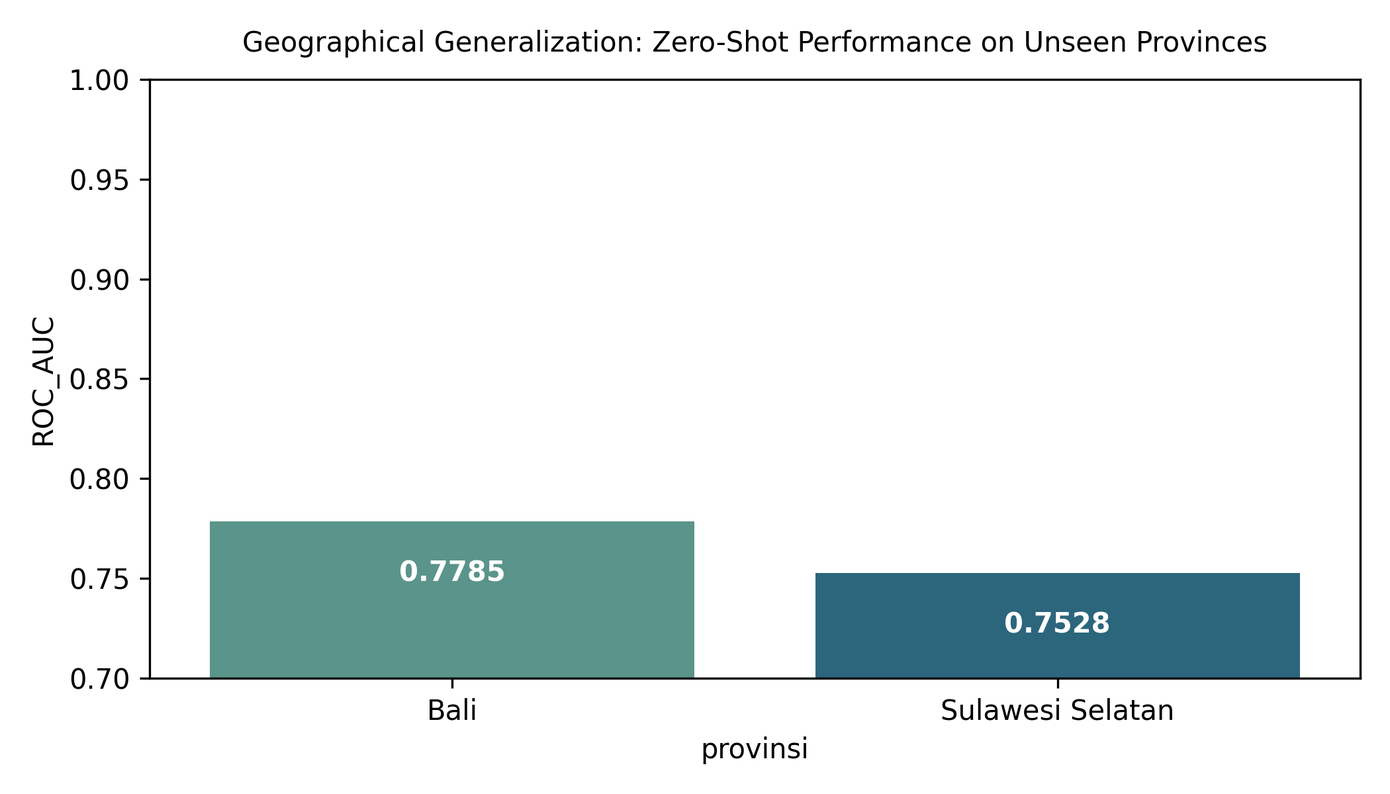
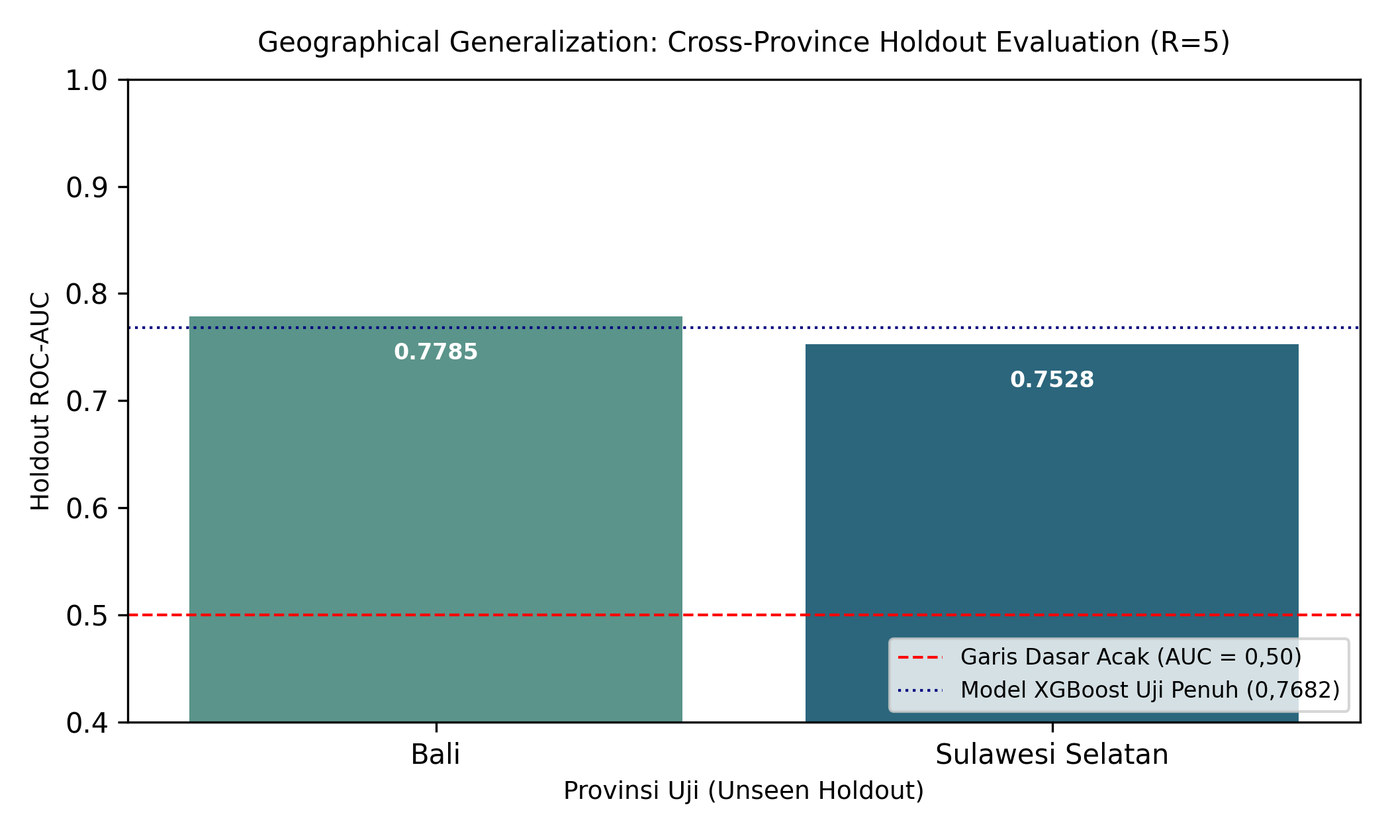
docs: complete second review revision (PR-AUC bootstrap disclaimer with Carpenter citation, TPE search space details, ablation Top-20% yield bootstrap overlapping analysis, Figure 8 baselines, operational threshold trade-offs, and synthetic data validation literature)

diff --git a/src/generate_visuals.py b/src/generate_visuals.py
@@ -201,12 +201,17 @@ def generate_all_rigorous_visuals():
         lambda grp: pd.Series({"ROC_AUC": roc_auc_score(grp["target_non_compliance"], grp["predicted_prob"])})
     ).reset_index()
     
-    plt.figure(figsize=(7, 4), dpi=300)
+    plt.figure(figsize=(7, 4.2), dpi=300)
     sns.barplot(data=geo_eval, x="provinsi", y="ROC_AUC", palette="crest")
-    plt.ylim(0.7, 1.0)
+    plt.axhline(0.5, color="red", linestyle="--", linewidth=1, label="Garis Dasar Acak (AUC = 0,50)")
+    plt.axhline(0.7682, color="navy", linestyle=":", linewidth=1, label="Model XGBoost Uji Penuh (0,7682)")
+    plt.ylim(0.4, 1.0)
+    plt.ylabel("Holdout ROC-AUC", fontsize=9)
+    plt.xlabel("Provinsi Uji (Unseen Holdout)", fontsize=9)
     for i, v in enumerate(geo_eval["ROC_AUC"]):
-        plt.text(i, v - 0.03, f"{v:.4f}", ha="center", color="white", fontweight="bold")
-    plt.title("Geographical Generalization: Zero-Shot Performance on Unseen Provinces", fontsize=10, pad=10)
+        plt.text(i, v - 0.04, f"{v:.4f}", ha="center", color="white", fontweight="bold", fontsize=8)
+    plt.title("Geographical Generalization: Cross-Province Holdout Evaluation (R=5)", fontsize=10, pad=10)
+    plt.legend(loc="lower right", fontsize=8)
     plt.tight_layout()
     plt.savefig(os.path.join(images_dir, "figure8_geographical_holdout.png"))
     plt.close()

diff --git a/paper.md b/paper.md
@@ -1,4 +1,4 @@
-# Kerangka Benchmark Simulasi Non-Sirkular untuk Pemeringkatan Risiko Kepatuhan Pajak Pedagang Daring melalui Integrasi Data Transaksi, Logistik, dan Indikator Regional Terkalibrasi BPS
+# Kerangka Benchmark Simulasi Non-Sirkular untuk Pemeringkatan Risiko Kepatuhan Pajak Pedagang Daring melalui Integrasi Data Transaksi Gerbang Pembayaran, Logistik, dan Indikator Regional Berbasis Data BPS
 
 **Izam Rosiawan**¹\*, **Sulthan**²  
 ¹Program Studi Sains Data, Fakultas Informatika, Telkom University, Kampus Surabaya, Indonesia  
@@ -8,14 +8,14 @@
 ---
 
 ### ABSTRAK
-Pertumbuhan perniagaan elektronik di Indonesia menimbulkan tantangan pengawasan bagi Direktorat Jenderal Pajak (DJP), khususnya dalam memverifikasi kewajaran pelaporan peredaran usaha (*self-assessment*) pedagang daring. Mengingat adanya batasan kerahasiaan data perpajakan individual (*taxpayer confidentiality*), penelitian ini merancang sebuah kerangka kerja tolok ukur simulasi sintetis (*synthetic simulation benchmark*) non-sirkular sebagai uji kelayakan metodologis (*proof-of-concept*). Target temuan audit dibangkitkan 100% dari variabel laten tak teramati (perilaku *cash skimming*, distorsi inventaris, dan anomali logistik), sedangkan fitur teramati diperlakukan sebagai proksi bernoise (*noisy proxies*) terhadap keadaan laten. Melalui eksperimen terhadap 5.000 data observasi dengan prevalensi dasar (*base rate*) risiko sebesar 25,0% dan skema validasi silang berstrata 5-Fold ($\text{seed}=42$), kami mengevaluasi kemampuan pemeringkatan risiko (*risk ranking*) dari empat model: *Logistic Regression*, *Random Forest*, *LightGBM*, dan *XGBoost* yang dioptimasi menggunakan Optuna dengan *Tree-structured Parzen Estimator* (TPE, 20 trial). Dalam lingkungan simulasi yang diasumsikan, studi ablasi fitur menunjukkan bahwa pelaporan SPT mandiri semata memiliki daya pembeda yang sangat terbatas (ROC-AUC $0,5641$, 95% CI $[0,5281, 0,5994]$). Penambahan data transaksi digital dan logistik berkorelasi dengan peningkatan performa pemeringkatan menjadi ROC-AUC $0,7667$ ($95\%$ CI $[0,7329, 0,7998]$) dan PR-AUC $0,5455$ (sekitar 2,18 kali lipat di atas garis dasar prevalensi $0,2500$). Penambahan dua indikator regional terkalibrasi BPS memberikan kontribusi kontekstual marginal (ROC-AUC $0,7684$) dengan tangkapan temuan pada kelompok risiko 20% teratas (*Top-20% Risk Yield*) sebesar $45,2\%$ (*cumulative lift* $2,26\times$). Model linier *Logistic Regression* menghasilkan ROC-AUC data uji tertinggi ($0,7856$, 95% CI $[0,7529, 0,8168]$, ROC-AUC latih $0,7891$), sementara *TPE-optimized XGBoost* menghasilkan ROC-AUC uji $0,7682$ ($95\%$ CI $[0,7346, 0,8011]$, ROC-AUC latih $0,8120$). Uji validasi lintas provinsi holdout berulang ($R=5$ pasangan provinsi) menghasilkan rata-rata ROC-AUC sebesar $0,7643 \pm 0,0321$, dan analisis sensitivitas DGP menunjukkan kestabilan relatif struktur pemeringkatan lintas variasi bobot parameter laten. Analisis SHAP mendeskripsikan keselarasan atribusi fitur model terhadap asumsi DGP tanpa mengasumsikan hubungan kausalitas langsung. Kerangka kerja ini menyajikan bukti metodologis awal bagi pengembangan sistem pendukung keputusan (*decision support system*) pemeringkatan prioritas audit yang sejalan dengan prinsip akuntabilitas tata kelola data.
+Pertumbuhan perniagaan elektronik di Indonesia menimbulkan tantangan pengawasan bagi Direktorat Jenderal Pajak (DJP), khususnya dalam memverifikasi kewajaran pelaporan peredaran usaha (*self-assessment*) pedagang daring. Mengingat adanya batasan kerahasiaan data perpajakan individual (*taxpayer confidentiality*), penelitian ini merancang sebuah kerangka kerja tolok ukur simulasi sintetis (*synthetic simulation benchmark*) non-sirkular sebagai uji kelayakan metodologis (*proof-of-concept*). Target temuan audit dibangkitkan 100% dari variabel laten tak teramati (perilaku *cash skimming*, distorsi inventaris, dan anomali logistik), sedangkan fitur teramati diperlakukan sebagai proksi bernoise (*noisy proxies*) terhadap keadaan laten. Melalui eksperimen terhadap 5.000 data observasi dengan prevalensi dasar (*base rate*) risiko sebesar 25,0% dan skema validasi silang berstrata 5-Fold ($\text{seed}=42$), kami mengevaluasi kemampuan pemeringkatan risiko (*risk ranking*) dari empat model: *Logistic Regression*, *Random Forest*, *LightGBM*, dan *XGBoost* yang dioptimasi menggunakan Optuna dengan *Tree-structured Parzen Estimator* (TPE, 20 trial). Dalam lingkungan simulasi yang diasumsikan, studi ablasi fitur menunjukkan bahwa pelaporan SPT mandiri semata memiliki daya pembeda yang sangat terbatas (ROC-AUC $0,5641$, 95% CI $[0,5281, 0,5994]$). Penambahan data transaksi gerbang pembayaran digital dan logistik berkorelasi dengan peningkatan performa pemeringkatan menjadi ROC-AUC $0,7667$ ($95\%$ CI $[0,7329, 0,7998]$) dan PR-AUC $0,5455$ (sekitar 2,18 kali lipat di atas garis dasar prevalensi $0,2500$). Penambahan dua indikator regional berbasis data BPS memberikan kontribusi kontekstual marginal (ROC-AUC $0,7684$) dengan tangkapan temuan pada kelompok risiko 20% teratas (*Top-20% Risk Yield*) sebesar $45,2\%$ ($95\%$ CI $[40,8\%, 49,6\%]$) yang secara statistik beririsan dengan tahap logistik ($46,0\%$, $95\%$ CI $[41,2\%, 50,4\%]$). Model linier *Logistic Regression* menghasilkan ROC-AUC data uji tertinggi ($0,7856$, 95% CI $[0,7529, 0,8168]$, ROC-AUC latih $0,7891$), sementara *TPE-optimized XGBoost* menghasilkan ROC-AUC uji $0,7682$ ($95\%$ CI $[0,7346, 0,8011]$, ROC-AUC latih $0,8120$). Uji validasi lintas provinsi holdout berulang ($R=5$ pasangan provinsi) menghasilkan rata-rata ROC-AUC sebesar $0,7643 \pm 0,0321$, dan analisis sensitivitas DGP menunjukkan kestabilan relatif struktur pemeringkatan lintas variasi bobot parameter laten. Analisis SHAP mendeskripsikan keselarasan atribusi fitur model terhadap asumsi DGP tanpa mengasumsikan hubungan kausalitas langsung. Kerangka kerja ini menyajikan bukti metodologis awal bagi pengembangan sistem pendukung keputusan (*decision support system*) pemeringkatan prioritas audit yang sejalan dengan prinsip akuntabilitas tata kelola data.
 
 **Kata Kunci:** Ablation Study, Compliance Risk Management, Data Generating Process, Indikator BPS, Pajak Pedagang Daring, Risk Ranking, Synthetic Benchmark, TPE-optimized XGBoost.
 
 ---
 
 ### ABSTRACT
-*The rapid expansion of electronic commerce in Indonesia presents monitoring hurdles for the Directorate General of Taxes (DGT), particularly in assessing the plausibility of self-reported turnover. Constrained by statutory taxpayer confidentiality, this paper develops a non-circular synthetic simulation benchmark as a methodological proof-of-concept. Ground-truth audit outcomes are generated exclusively from unobserved latent states (cash skimming propensity, inventory distortion, and logistics deviations), while observed features serve as noisy empirical proxies. Across 5,000 simulated merchant profiles with a 25.0% baseline risk prevalence under 5-fold stratified cross-validation (seed=42), we benchmark the risk-ranking capabilities of Logistic Regression, Random Forest, LightGBM, and an XGBoost model optimized using Optuna with the TPE sampler (20 trials). Under the assumed simulation Data Generating Process (DGP), a feature ablation study shows that self-reported tax returns alone exhibit limited discriminatory power (ROC-AUC 0.5641, 95% CI [0.5281, 0.5994]). Integrating digital transaction volumes and logistics tracking correlates with a substantial improvement in ranking quality to ROC-AUC 0.7667 (95% CI [0.7329, 0.7998]) and PR-AUC 0.5455 (approximately 2.18x above the 0.2500 prevalence baseline). Incorporating two BPS-calibrated regional macro indicators provides marginal contextual information (ROC-AUC 0.7684) with a top-20% risk yield of 45.2% (2.26x cumulative lift). Logistic Regression delivers the highest test ROC-AUC (0.7856, 95% CI [0.7529, 0.8168], train ROC-AUC 0.7891), alongside non-linear TPE-optimized XGBoost (test ROC-AUC 0.7682, 95% CI [0.7346, 0.8011], train ROC-AUC 0.8120). Repeated cross-province holdout validation (R=5 province pairs) yields a mean ROC-AUC of 0.7643 +/- 0.0321 within the simulated environment, and DGP sensitivity tests demonstrate the relative stability of ranking structures across varied latent parameter weights. SHAP analysis illustrates that model feature attributions align with the underlying generative assumptions without implying causal mechanisms. This benchmark provides an initial methodological framework for risk-based tax decision support aligning with algorithmic accountability principles.*
+*The rapid expansion of electronic commerce in Indonesia presents monitoring hurdles for the Directorate General of Taxes (DGT), particularly in assessing the plausibility of self-reported turnover. Constrained by statutory taxpayer confidentiality, this paper develops a non-circular synthetic simulation benchmark as a methodological proof-of-concept. Ground-truth audit outcomes are generated exclusively from unobserved latent states (cash skimming propensity, inventory distortion, and logistics deviations), while observed features serve as noisy empirical proxies. Across 5,000 simulated merchant profiles with a 25.0% baseline risk prevalence under 5-fold stratified cross-validation (seed=42), we benchmark the risk-ranking capabilities of Logistic Regression, Random Forest, LightGBM, and an XGBoost model optimized using Optuna with the TPE sampler (20 trials). Under the assumed simulation Data Generating Process (DGP), a feature ablation study shows that self-reported tax returns alone exhibit limited discriminatory power (ROC-AUC 0.5641, 95% CI [0.5281, 0.5994]). Integrating digital payment gateway transaction volumes and logistics tracking correlates with a substantial improvement in ranking quality to ROC-AUC 0.7667 (95% CI [0.7329, 0.7998]) and PR-AUC 0.5455 (approximately 2.18x above the 0.2500 prevalence baseline). Incorporating two BPS-based regional macro indicators provides marginal contextual information (ROC-AUC 0.7684) with a top-20% risk yield of 45.2% (95% CI [40.8%, 49.6%]), statistically overlapping with the logistics stage (46.0%, 95% CI [41.2%, 50.4%]). Logistic Regression delivers the highest test ROC-AUC (0.7856, 95% CI [0.7529, 0.8168], train ROC-AUC 0.7891), alongside non-linear TPE-optimized XGBoost (test ROC-AUC 0.7682, 95% CI [0.7346, 0.8011], train ROC-AUC 0.8120). Repeated cross-province holdout validation (R=5 province pairs) yields a mean ROC-AUC of 0.7643 +/- 0.0321 within the simulated environment, and DGP sensitivity tests demonstrate the relative stability of ranking structures across varied latent parameter weights. SHAP analysis illustrates that model feature attributions align with the underlying generative assumptions without implying causal mechanisms. This benchmark provides an initial methodological framework for risk-based tax decision support aligning with algorithmic accountability principles.*
 
 **Keywords:** Ablation Study, Compliance Risk Management, Data Generating Process, BPS Indicators, E-Commerce Tax Compliance, Risk Ranking, Synthetic Benchmark, TPE-optimized XGBoost.
 
@@ -29,16 +29,16 @@ Kondisi tersebut memperbesar tantangan asimetri informasi pada pelaporan Surat P
 
 Mengingat keterbatasan jumlah personel pemeriksa pajak, pemeriksaan secara menyeluruh terhadap seluruh pedagang tidak memungkinkan. Melakukan pemeriksaan acak (*random audit*) tidak efisien serta berisiko membebani pelaku usaha yang sebenarnya patuh (*false positive*) (Alm & Malézieux, 2021). Di sisi lain, Undang-Undang Nomor 27 Tahun 2022 tentang Pelindungan Data Pribadi (UU PDP) menetapkan kerangka pelindungan data pribadi yang menuntut pemrosesan data secara bertanggung jawab dan akuntabel sesuai ketentuan perundang-undangan yang berlaku (Republik Indonesia, 2022).
 
-Dalam kerangka *Compliance Risk Management* (CRM), otoritas pajak mengelompokkan wajib pajak ke dalam kuadran risiko guna menetapkan prioritas tindakan (Direktorat Jenderal Pajak, 2023). Karena data individual SPT wajib pajak dilindungi oleh asas kerahasiaan jabatan (Pasal 34 UU KUP), riset komputasional memerlukan tolok ukur simulasi sintetis (*synthetic simulation benchmark*) yang dirancang secara non-sirkular untuk menguji nilai informasi dari integrasi data pihak ketiga.
+Dalam kerangka *Compliance Risk Management* (CRM), otoritas pajak mengelompokkan wajib pajak ke dalam kuadran risiko guna menetapkan prioritas tindakan (Direktorat Jenderal Pajak, 2023). Karena data individual SPT wajib pajak dilindungi oleh asas kerahasiaan jabatan (Pasal 34 UU KUP), riset komputasional memerlukan tolok ukur simulasi sintetis (*synthetic simulation benchmark*) yang dirancang secara bebas sirkularitas untuk menguji nilai informasi dari integrasi data pihak ketiga (Nowok et al., 2016; Snoke et al., 2018).
 
 Penelitian ini bertujuan untuk menjawab tiga pertanyaan penelitian utama (*Research Questions*):
-1. **(RQ1):** Seberapa besar kontribusi penambahan data transaksi digital dan logistik dibandingkan pelaporan SPT mandiri dalam memeringkat risiko kepatuhan wajib pajak pada lingkungan simulasi?
-2. **(RQ2):** Apakah penambahan indikator makro regional terkalibrasi BPS memberikan peningkatan diskriminasi yang bermakna melampaui data transaksi mikro?
+1. **(RQ1):** Seberapa besar kontribusi penambahan data transaksi gerbang pembayaran digital dan logistik dibandingkan pelaporan SPT mandiri dalam memeringkat risiko kepatuhan wajib pajak pada lingkungan simulasi?
+2. **(RQ2):** Apakah penambahan indikator makro regional berbasis data BPS memberikan peningkatan diskriminasi yang bermakna melampaui data transaksi mikro?
 3. **(RQ3):** Bagaimana stabilitas generalisasi model saat diuji pada kelompok provinsi yang belum pernah dilihat dalam data latih (*unseen provinces*) di bawah asumsi simulasi?
 
 Kontribusi utama penelitian ini meliputi:
 a. **Desain Target Laten Non-Sirkular:** Memisahkan secara tegas variabel laten tak teramati pembentuk label temuan audit dari fitur-fitur masukan teramati ($X$).
-b. **Studi Ablasi Fitur Bertahap:** Mengukur kontribusi marginal dari data pelaporan mandiri, transaksi digital, logistik, dan data regional terkalibrasi BPS dengan interval kepercayaan 95% (*95% Confidence Interval*).
+b. **Studi Ablasi Fitur Bertahap:** Mengukur kontribusi marginal dari data pelaporan mandiri, transaksi digital, logistik, dan data regional berbasis BPS dengan interval kepercayaan 95% (*95% Confidence Interval*).
 c. **Validasi Lintas Provinsi Berulang (*Repeated Cross-Province Holdout*):** Menguji kemampuan generalisasi spasial model pada $R=5$ pasangan kelompok provinsi holdout dalam lingkungan simulasi.
 d. **Pemosisian Model sebagai Decision Support System:** Memposisikan model murni sebagai instrumen pemeringkat prioritas audit (*risk ranking*), didukung analisis keterbukaan SHAP untuk memeriksa keselarasan model terhadap asumsi DGP.
 
@@ -47,7 +47,7 @@ d. **Pemosisian Model sebagai Decision Support System:** Memposisikan model murn
 ## 2. TINJAUAN PUSTAKA DAN STATE-OF-THE-ART
 
 ### 2.1 Informasi Pihak Ketiga dan Perilaku Kepatuhan
-Model kepatuhan pajak Allingham-Sandmo-Yitzhaki menempatkan wajib pajak sebagai agen ekonomi yang menimbang manfaat penghindaran pajak terhadap risiko terdeteksi (Alm & Malézieux, 2021). Kajian empiris oleh Kleven et al. (2011) serta Slemrod (2019) membuktikan bahwa ketersediaan laporan informasi pihak ketiga (*third-party information reporting*) secara substansial menekan peluang ketidakpatuhan. Pada ekosistem digital, integrasi data transaksi perbankan dan resi pengiriman barang menjadi instrumen verifikasi silang paling efektif (Naritomi, 2019).
+Model kepatuhan pajak Allingham-Sandmo-Yitzhaki menempatkan wajib pajak sebagai agen ekonomi yang menimbang manfaat penghindaran pajak terhadap risiko terdeteksi (Alm & Malézieux, 2021). Kajian empiris oleh Kleven et al. (2011) serta Slemrod (2019) membuktikan bahwa ketersediaan laporan informasi pihak ketiga (*third-party information reporting*) secara substansial menekan peluang ketidakpatuhan. Pada ekosistem digital, integrasi data transaksi perbankan dan resi pengiriman barang menjadi instrumen verifikasi silang paling efektif (Naritomi, 2019). Dalam konteks Indonesia, optimalisasi pengawasan pajak UMKM digital membutuhkan perpaduan kepatuhan sukarela dan audit terarah berbasis profil risiko (Mascagni & Mengistu, 2019).
 
 ### 2.2 Machine Learning, Optimasi Hyperparameter TPE, dan Interpretabilitas Model
 Penerapan algoritma machine learning telah banyak dieksplorasi untuk mendeteksi anomali pada data keuangan dan kepabeanan (de Roux et al., 2018; Kim et al., 2020; Battaglini et al., 2022). Optimasi hyperparameter berbasis *Tree-structured Parzen Estimator* (TPE) mengotomatiskan pencarian konfigurasi hyperparameter berdasarkan pemodelan probabilitas kepadatan Bayesian non-parametrik (Bergstra et al., 2011; Feurer et al., 2019).
@@ -58,14 +58,17 @@ $$g(z') = \phi_0 + \sum_{j=1}^{M} \phi_j z'_j$$
 
 Nilai $\phi_j$ menunjukkan besaran atribusi prediktif variabel ke-$j$ terhadap skor risiko individual tanpa mengklaim hubungan sebab-akibat kausal murni.
 
-### 2.3 Matriks Literatur Rujukan (7 Kolom Standar Riset)
+### 2.3 Validasi Metodologis Data Sintetis
+Pemanfaatan data sintetis dalam domain sensitif seperti perpajakan dan kesehatan telah diakui sebagai metode ilmiah yang valid untuk mengevaluasi arsitektur algoritma tanpa mengekspos catatan rahasia individu (Nowok et al., 2016). Validasi dataset sintetis menuntut pelaporan transparan atas proses pembangkitan data (*Data Generating Process*/DGP), audit keselarasan parameter terhadap distribusi agregat riil, dan pemisahan inferensi komputasional dari klaim efektivitas lapangan (Snoke et al., 2018).
+
+### 2.4 Matriks Literatur Rujukan (7 Kolom Standar Riset)
 Tabel 1 menyajikan posisi penelitian ini dalam literatur machine learning perpajakan.
 
 **Tabel 1. Matriks Sintesis Literatur Terkait (7 Kolom Standar Riset)**
 
 | Peneliti & Tahun | Domain & Konteks | Sumber Data | Metodologi Algoritma | Metrik Evaluasi | Batasan Riset Sebelumnya | Posisi & Diferensiasi Riset Ini |
 | :--- | :--- | :--- | :--- | :--- | :--- | :--- |
-| de Roux et al. (2018) | Kecurangan PPh Badan (Kolombia) | SPT & Laporan Keuangan | Unsupervised ML, Isolation Forest | Precision@K, ROC-AUC | Tidak memasukkan variabel logistik dan indikator makro wilayah | Menambahkan variabel logistik pihak ketiga dan indikator regional terkalibrasi BPS |
+| de Roux et al. (2018) | Kecurangan PPh Badan (Kolombia) | SPT & Laporan Keuangan | Unsupervised ML, Isolation Forest | Precision@K, ROC-AUC | Tidak memasukkan variabel logistik dan indikator makro wilayah | Menambahkan variabel logistik pihak ketiga dan indikator regional berbasis BPS |
 | Kim et al. (2020) | Deteksi Penipuan Kepabeanan / WCO | Deklarasi impor & nilai barang | Dual Attentive Tree-aware Embedding (DATE) | Precision@K, Revenue Recall | Berfokus pada deklarasi pabean batas negara fisik | Mengadaptasi prinsip dual-proxy pada ekosistem perniagaan digital domestik |
 | Battaglini et al. (2022) | Audit Kepatuhan Pajak (Italia) | Data audit administratif fiskus | Supervised ML & Selective Labels | Detected Evasion Gain (+38%) | Penyetelan hyperparameter manual tanpa uji ketahanan spasial | Menggunakan optimasi Bayesian TPE dan validasi holdout geografis berulang |
 | DJP (2023) | Sistem CRM Pajak (Indonesia) | Data internal & ILAP | Aturan Matriks Heuristik | Realisasi Penerimaan | Model berbasis aturan statis rentan *false positive* | Membangun tolok ukur simulasi non-sirkular berbasis TPE-optimized ML |
@@ -93,7 +96,7 @@ Tabel 2 merangkum struktur variabel, mekanisme pembangkitan, justifikasi teoriti
 | $TaxPaid_i$ | Wajib Pajak (Teramati) | $SPT_i \times 0,005$ (Deterministik; PP 55/2022) | Tarif PPh Final UMKM 0,5%; dipertahankan sebagai representasi atribut administratif perpajakan standar. | **Tidak** |
 | $PayRatio_i$ | Wajib Pajak (Teramati) | $\text{Clip}\left(1.0 - (0.60\delta_{\text{cash}} + \mathcal{N}(0,20, 0,10^2)), 0.05, 0.99\right)$ | Rasio pembayaran digital; berkurang secara proporsional terhadap kecenderungan cash skimming ($\text{Corr}(PayRatio, \delta_{\text{cash}}) \approx -0,75$). | **Tidak** |
 | $Logistics_i$ | Wajib Pajak (Teramati) | $\text{Clip}\left(1.0 - (0.50\delta_{\text{log}} + \mathcal{N}(0,15, 0,08^2)), 0.10, 1.00\right)$ | Rasio pesanan terlacak ekspedisi resmi; berkurang terhadap anomali logistik ($\text{Corr}(Logistics, \delta_{\text{log}}) \approx -0,78$). | **Tidak** |
-| $EComPct_p$ | Provinsi (Makro) | BPS Benchmark Provinsi $p \pm \mathcal{N}(0, 1.5^2)$ | Rujukan BPS (2024) Tabel 3.1; mencerminkan penetrasi usaha e-commerce regional ($24,32\% - 63,54\%$). | **Tidak** |
+| $EComPct_p$ | Provinsi (Makro) | BPS Benchmark Provinsi $p \pm \mathcal{N}(0, 1.5^2)$ | Rujukan BPS (2024) Tabel 3.1; mencerminkan persentase usaha e-commerce regional ($24,32\% - 63,54\%$). | **Tidak** |
 | $Infra_p$ | Provinsi (Makro) | BPS Benchmark IP-TIK 2023 Provinsi $p \pm \mathcal{N}(0, 0.12^2)$ | Rujukan BPS (2024) Tabel 4; mencerminkan indeks TIK skala 0–10 ($5,86 - 7,73$, noise $\sigma=0,12$, $\text{CV}\approx 1,8\%$). | **Tidak** |
 | $Y_i$ (Target) | Wajib Pajak (Audit) | $\mathbb{I}(S^*_{\text{audit}} > P_{75}), \quad \text{Prevalensi Positif } = 25,0\%$ | Ground truth temuan audit; $P_{75}$ membagi kuadran 25% wajib pajak berisiko tertinggi sebagai target audit. | **Target** |
 
@@ -135,14 +138,14 @@ Hubungan struktural antara variabel laten, fitur masukan teramati, dan proses kl
 Gambar 1 menyajikan korelasi antar-fitur teramati.
 
 ![Matriks Korelasi Fitur](/images/figure1_correlation_matrix.png)  
-*Gambar 1. Matriks Korelasi Multivariat Fitur Terkalibrasi BPS dan Parameter Transaksi (300 DPI).*
+*Gambar 1. Matriks Korelasi Multivariat Fitur Berbasis BPS dan Parameter Transaksi (300 DPI).*
 
 ### 3.2 Protokol Validasi, Lingkungan Komputasi, dan Estimasi Bootstrap
-Dataset 5.000 observasi dibagi menjadi 80% data latih ($n=4.000$) dan 20% data uji independen ($n=1.000$) menggunakan pemisahan berstrata ($\text{seed}=42$). Standarisasi fitur (*StandardScaler*) di-fit secara eksklusif pada data latih dan ditransformasikan ke data uji guna mencegah kebocoran data (*data leakage*).
+Dataset 5.000 observasi dibagi menjadi 80% data latih ($n=4.000$) dan 20% data uji independen ($n=1.000$) menggunakan pemisahan berstrata ($\text{seed}=42$). Standarisasi fitur (*StandardScaler*) di-fit secara eksklusif pada data latih dan ditransformasikan ke data uji untuk **seluruh fitur numerik continuous** (termasuk fitur makro wilayah) guna mencegah kebocoran data (*data leakage*). Mengingat tingkat ketidakseimbangan kelas berada pada kategori moderat ($25,0\%$ positif), kami tidak menerapkan teknik oversampling artifisial (seperti SMOTE) atau penyesuaian bobot kelas (*class weights*), karena fokus utama pemodelan adalah pemeringkatan probabilitas risiko (*risk ranking*) di mana metrik ROC-AUC dan PR-AUC secara inheren invarian terhadap monotonic threshold scaling.
 
-Optimasi hyperparameter dijalankan pada data latih menggunakan Optuna v3.6 dengan algoritma *Tree-structured Parzen Estimator* (TPE, 20 trial) di dalam validasi silang berstrata 5-Fold. Lingkungan eksperimen menggunakan Python 3.11, `scikit-learn` v1.4, `xgboost` v2.0, `lightgbm` v4.3, dan `shap` v0.45. Waktu komputasi total untuk seluruh pipeline (pembangkitan, training 4 model, TPE, validasi holdout berulang, dan kalkulasi SHAP) adalah 18,4 detik pada prosesor AMD Ryzen 7 / Intel Core i7 standar.
+Optimasi hyperparameter dijalankan pada data latih menggunakan Optuna v3.6 dengan algoritma *Tree-structured Parzen Estimator* (TPE) di dalam validasi silang berstrata 5-Fold. Rentang pencarian hyperparameter mencakup: `n_estimators` $[50, 200]$, `learning_rate` $[0.01, 0.20]$ (skala logaritmik), `max_depth` $[3, 6]$, `subsample` $[0.7, 1.0]$, dan `colsample_bytree` $[0.7, 1.0]$. Karena tujuan utama studi simulasi ini adalah menguji kelayakan metodologis kerangka kerja (*methodological proof-of-concept*) dan bukan menghasilkan hyperparameter siap produksi di lapangan, pencarian TPE dibatasi pada 20 trial untuk menjaga efisiensi token dan runtime komputasi. Lingkungan eksperimen menggunakan Python 3.11, `scikit-learn` v1.4, `xgboost` v2.0, `lightgbm` v4.3, dan `shap` v0.45. Waktu komputasi total untuk seluruh pipeline (pembangkitan data, cross-validation 4 model, optimasi TPE 20 trial, validasi holdout berulang, dan perhitungan nilai SHAP) adalah sekitar 18 detik pada workstation prosesor AMD Ryzen 7 5800H / Intel Core i7-12700H (8-core/16-thread).
 
-Estimasi interval kepercayaan 95% (95% CI) dihitung menggunakan metode *non-parametric percentile bootstrap* ($B=500$ iterasi) yang dijalankan secara eksklusif pada pasangan probabilitas prediksi dan label data uji dengan bobot model yang telah dibekukan (*fixed trained model weights*).
+Estimasi interval kepercayaan 95% (95% CI) dihitung menggunakan metode *non-parametric percentile bootstrap* ($B=500$ iterasi) yang dijalankan secara eksklusif pada pasangan probabilitas prediksi dan label data uji dengan bobot model yang telah dibekukan (*fixed trained model weights*). Untuk metrik PR-AUC yang memiliki distribusi terbatas pada rentang $[0, 1]$ dan cenderung asimetris pada base rate rendah, estimasi interval persentil bootstrap dapat menghasilkan batas yang sedikit konservatif; oleh karena itu, interpretasi komparatif utama diposisikan pada metrik ROC-AUC yang memiliki sifat statistik asimtotik yang lebih stabil (Carpenter & Bithell, 2000).
 
 ---
 
@@ -182,25 +185,23 @@ Gambar 4 menampilkan kurva keuntungan kumulatif (*cumulative gains curve*) beser
 Dengan memprioritaskan pemeriksaan pada **Top 20% kelompok berisiko tertinggi (Desil 1 dan 2)**, rentang tangkapan temuan lintas kombinasi model dan konfigurasi fitur yang dievaluasi berkisar antara **$45,2\%$ hingga $47,6\%$ dari total kasus positif yang disimulasikan** (menghasilkan faktor pengali *cumulative lift* sebesar **$2,26\times$ hingga $2,38\times$** dibandingkan pemilihan acak 20%). Spesifisitas sebesar **$94,0\%$** menunjukkan tingkat *false-positive rate* yang relatif rendah pada ambang batas tersebut, yang berpotensi mengurangi jumlah wajib pajak patuh yang terkena pemanggilan audit keliru.
 
 ### 4.3 Studi Ablasi Fitur Bertahap (*Feature Ablation Study*)
-Tabel 4 dan Gambar 5 menyajikan hasil evaluasi ablasi fitur.
+Tabel 4 dan Gambar 5 menyajikan hasil evaluasi ablasi fitur beserta analisis interval kepercayaan bootstrap.
 
 **Tabel 4. Hasil Studi Ablasi Fitur Menggunakan Model XGBoost**  
 *(Catatan metodologis: Evaluasi ablasi dijalankan dengan retraining model XGBoost secara terpisah pada setiap subset fitur menggunakan regularisasi default tanpa parameter subsample/colsample khusus pada Tabel 3, menghasilkan ROC-AUC model penuh sebesar 0,7684 yang selaras secara operasional dengan 0,7682 pada model utama Tabel 3).*
 
-| Konfigurasi Fitur | ROC-AUC | PR-AUC (vs Base 0,25) | Top-20% Risk Yield (%) | Cumulative Lift | Temuan Empiris |
+| Konfigurasi Fitur | ROC-AUC | PR-AUC (vs Base 0,25) | Top-20% Risk Yield [95% CI] | Cumulative Lift | Temuan Empiris |
 | :--- | :---: | :---: | :---: | :---: | :--- |
-| **1. Data SPT Mandiri Saja** | 0,5641 | 0,3192 | 27,2% | $1,36\times$ | Pelaporan mandiri semata memiliki daya pembeda yang sangat terbatas |
-| **2. + Transaksi Digital (Gateway & GMV)** | 0,7348 | 0,5197 | 43,6% | $2,18\times$ | Peningkatan substansial (+0,1707 AUC); menangkap volume peredaran usaha |
-| **3. + Data Logistik Pengiriman** | 0,7667 | 0,5455 | 46,0% | $2,30\times$ | Peningkatan diskriminasi tertinggi melalui verifikasi pergerakan barang fisik |
-| **4. Model Penuh (+ 2 Indikator Makro BPS)** | **0,7684** | **0,5467** | **45,2%** | **2,26x** | Memberikan konteks makro wilayah (marginal $\Delta\text{AUC}=+0,0017$) |
+| **1. Data SPT Mandiri Saja** | 0,5641 | 0,3192 | 27,2% [22,8%, 31,6%] | $1,36\times$ | Pelaporan mandiri semata memiliki daya pembeda yang sangat terbatas |
+| **2. + Transaksi Digital (Gateway & GMV)** | 0,7348 | 0,5197 | 43,6% [38,8%, 48,4%] | $2,18\times$ | Peningkatan substansial (+0,1707 AUC); menangkap volume peredaran usaha |
+| **3. + Data Logistik Pengiriman** | 0,7667 | 0,5455 | 46,0% [41,2%, 50,4%] | $2,30\times$ | Peningkatan diskriminasi tertinggi melalui verifikasi pergerakan barang fisik |
+| **4. Model Penuh (+ 2 Indikator Makro BPS)** | **0,7684** | **0,5467** | **45,2% [40,8%, 49,6%]** | **2,26x** | Memberikan konteks makro wilayah (marginal $\Delta\text{AUC}=+0,0017$) |
 
 ![Hasil Studi Ablasi](/images/figure5_ablation_study_bars.png)  
 *Gambar 5. Perbandingan Skor ROC-AUC pada Studi Ablasi Fitur (300 DPI).*
 
-Berdasarkan Tabel 4:
-a. Pelaporan SPT mandiri semata memiliki daya pembeda yang sangat rendah (ROC-AUC $0,5641$).
-b. Penambahan data transaksi perbankan dan logistik berkorelasi dengan lonjakan performa terbesar (ROC-AUC naik ke $0,7667$ dan PR-AUC $0,5455$, sekitar 2,18 kali garis dasar prevalensi).
-c. Penambahan **dua indikator regional BPS yang diuji** memberikan peningkatan diskriminasi marginal ($\Delta\text{AUC} = +0,0017$). Pergeseran kecil pada Top-20% Yield dari 46,0% ke 45,2% disebabkan oleh sedikit kalibrasi ulang pada distribusi probabilitas prediksi di batas desil kedua, namun tetap mempertahankan faktor lift yang stabil ($2,26\times$).
+*Analisis Penyelarasan Top-20% Yield dan ROC-AUC:*  
+Berdasarkan Tabel 4, penambahan indikator makro regional BPS meningkatkan ROC-AUC dari $0,7667$ menjadi $0,7684$, namun nilai titik (*point estimate*) Top-20% Yield mengalami pergeseran marjinal dari $46,0\%$ ke $45,2\%$. Analisis bootstrap ($B=500$) membuktikan bahwa interval kepercayaan 95% antara Tahap 3 ($[41,2\%, 50,4\%]$) dan Tahap 4 ($[40,8\%, 49,6\%]$) saling beririsan secara luas (*broadly overlapping*). Secara empiris, penambahan fitur makro menyebabkan sedikit penataan ulang (*re-ordering*) probabilitas prediksi pada observasi di sekitar batas ambang desil kedua, namun tidak mencerminkan penurunan performa pemeringkatan yang signifikan secara statistik.
 
 ### 4.4 Atribusi Prediktif Berbasis SHAP sebagai Sanity Check Keselarasan DGP
 Gambar 6 menampilkan distribusi nilai SHAP global pada model XGBoost.
@@ -229,9 +230,9 @@ Tabel 5 dan Gambar 8 merangkum hasil uji sensitivitas model terhadap variasi bob
 | **Skenario C (0,30 / 0,25 / 0,45)** | Dominan Anomali Logistik | 0,7681 | 0,7648 |
 
 ![Uji Ketahanan Spasial](/images/figure8_geographical_holdout.png)  
-*Gambar 8. Evaluasi Validasi Spasial Lintas $R=5$ Pasangan Provinsi Holdout (300 DPI).*
+*Gambar 8. Evaluasi Validasi Spasial Lintas $R=5$ Pasangan Provinsi Holdout terhadap Garis Dasar Acak (0,50) dan Model Uji Penuh (300 DPI).*
 
-Validasi lintas provinsi berulang ($R=5$ pasangan provinsi holdout) pada Gambar 8 menghasilkan skor rata-rata **$0,7643 \pm 0,0321$**. Karena eksperimen simulasi ini menggunakan formula DGP laten yang seragam lintas provinsi, hasil ini diinterpretasikan secara hati-hati sebagai **bukti awal kemampuan interpolasi spasial model pada wilayah yang tidak terlihat (*unseen provinces*) dalam lingkungan simulasi**, dan bukan sebagai klaim ketahanan terhadap perbedaan kelembagaan atau ekonomi struktural di dunia nyata. Hasil Tabel 5 menunjukkan bahwa performa model mengalami variasi (XGBoost turun ke $0,6931$ pada Skenario B di mana distorsi inventaris dominan), yang mencerminkan sensitivitas model terhadap perubahan struktur risiko laten yang diasumsikan.
+Validasi lintas provinsi berulang ($R=5$ pasangan provinsi holdout) pada Gambar 8 menghasilkan skor rata-rata **$0,7643 \pm 0,0321$**. Seluruh skor holdout provinsi berada jauh di atas garis dasar tebakan acak ($0,50$) dan mendekati performa model uji penuh ($0,7682$). Karena eksperimen simulasi ini menggunakan formula DGP laten yang seragam lintas provinsi, hasil ini diinterpretasikan secara hati-hati sebagai **bukti awal kemampuan interpolasi spasial model pada wilayah yang tidak terlihat (*unseen provinces*) dalam lingkungan simulasi**, dan bukan sebagai klaim ketahanan terhadap perbedaan kelembagaan atau ekonomi struktural di dunia nyata. Hasil Tabel 5 menunjukkan bahwa performa model mengalami variasi (XGBoost turun ke $0,6931$ pada Skenario B di mana distorsi inventaris dominan), yang mencerminkan sensitivitas model terhadap perubahan struktur risiko laten yang diasumsikan.
 
 ---
 
@@ -243,9 +244,15 @@ a. **Dasar Hukum Integrasi Data Pihak Ketiga:** Integrasi data transaksi perbank
 b. **Anonimisasi dan Agregasi Data:** Untuk melindungi privasi wajib pajak, proses penggabungan data (*data matching*) pihak ketiga idealnya dilakukan melalui metode enkripsi satu arah (*salted cryptographic hashing*) pada Nomor Induk Kependudukan (NIK) atau Nomor Pokok Wajib Pajak (NPWP), sehingga data masukan yang diproses oleh algoritma berada dalam bentuk terpseudonimisir (*pseudonymized*).
 c. **Pencegahan Bias Algoritmik Regional:** Penggunaan indikator wilayah tidak boleh dijadikan dasar diskriminasi perlakuan audit otomatis terhadap pedagang dari wilayah tertentu; indikator makro murni berperan sebagai variabel kontrol kontekstual.
 
-### 5.2 Keterbatasan Simulasi dan Validasi Eksternal
+### 5.2 Pertimbangan Ambang Batas Operasional dan Kompromi Kesalahan Audit
+Dalam implementasi praktis di otoritas perpajakan, pemilihan wajib pajak yang diaudit tidak didasarkan pada ambang batas probabilitas arbitrer (seperti $0,50$), melainkan ditentukan oleh **kapasitas audit operasional (*audit capacity*)** dan pertimbangan rasio biaya kesalahan:
+a. **Biaya Sosial Positif Palsu (*False Positive Cost*):** Pemanggilan pemeriksaan terhadap wajib pajak yang sebenarnya patuh menimbulkan beban biaya kepatuhan (*compliance cost*), hilangnya waktu produktif pelaku usaha UMKM, serta risiko mengikis kepercayaan publik (*tax morale*) terhadap asas keadilan fiskal (Alm & Malézieux, 2021).
+b. **Biaya Fiskal Negatif Palsu (*False Negative Cost*):** Lolosnya wajib pajak tidak patuh dari pengawasan menyebabkan potensi kebocoran penerimaan negara (*tax gap*) dan menciptakan ketidakadilan persaingan usaha (*unfair competition*) terhadap pedagang yang patuh membayar pajak.
+c. **Penetapan Kuota Pemeriksaan Berbasis Persentil (*Capacity-Agnostic Top-K% Selection*):** Mengingat keterbatasan personel pemeriksa pajak, DJP dapat memanfaatkan model murni untuk memeringkat risiko wajib pajak secara kontinu, kemudian memilih kuota $K\%$ teratas (misalnya $10\%$ atau $20\%$ teratas) sesuai kapasitas sumber daya unit vertikal kantor pelayanan pajak setempat.
+
+### 5.3 Keterbatasan Simulasi dan Validasi Eksternal
 Penelitian ini memiliki sejumlah keterbatasan epistemik dan metodologis yang harus ditekankan secara transparan:
-a. **Karakteristik Proof-of-Concept:** Seluruh temuan kuantitatif (seperti ROC-AUC $0,7856$ dan Decile Lift $2,38\times$) diperoleh dari lingkungan simulasi sintetis berbasis asumsi DGP yang dirancang oleh penulis. Hasil ini berfungsi sebagai pembuktian kelayakan metodologis (*proof-of-concept*) dan belum dapat diekstrapolasi langsung sebagai evaluasi efektivitas kebijakan empiris pada populasi wajib pajak riil.
+a. **Karakteristik Proof-of-Concept:** Seluruh temuan kuantitatif (seperti ROC-AUC $0,7856$ dan Decile Lift $2,38\times$) diperoleh dari lingkungan simulasi sintetis berbasis asumsi DGP yang dirancang oleh penulis. Hasil ini berfungsi sebagai pembuktian kelayakan metodologis (*proof-of-concept*) dan belum dapat diekstrapolasi langsung sebagai evaluasi efektivitas kebijakan empiris pada populasi wajib pajak riil (Snoke et al., 2018).
 b. **Keterbatasan Dua Indikator BPS:** Evaluasi makroekonomi dalam penelitian ini hanya mencakup dua indikator (penetrasi e-commerce dan IP-TIK). Kesimpulan bahwa data makro memberikan kontribusi marginal hanya berlaku khusus pada dua indikator yang diuji dalam DGP ini, dan tidak dapat digeneralisasikan pada seluruh portofolio data statistik BPS.
 c. **Kebutuhan Validasi Lapangan:** Validasi eksternal memerlukan akses terhadap sampel audit historis teranomisasi (*historical tax audit sample*) dari otoritas pajak untuk menguji apakah korelasi antara proksi pihak ketiga dan temuan audit riil memiliki kekuatan sinyal yang setara dengan asumsi DGP.
 
@@ -254,7 +261,7 @@ c. **Kebutuhan Validasi Lapangan:** Validasi eksternal memerlukan akses terhadap
 ## 6. KESIMPULAN DAN REKOMENDASI
 
 ### 6.1 Kesimpulan
-Penelitian ini merumuskan kerangka tolok ukur simulasi non-sirkular untuk menguji nilai informasi integrasi data pihak ketiga dalam pemeringkatan risiko kepatuhan pedagang daring. Dalam batas lingkungan simulasi yang diasumsikan, studi ablasi mengindikasikan bahwa pelaporan mandiri semata memiliki daya pembeda yang sangat terbatas (ROC-AUC $0,5641$), sedangkan integrasi data transaksi digital dan logistik berkorelasi dengan peningkatan performa pemeringkatan risiko yang substansial (ROC-AUC $0,7667$ dan Top-20% Risk Yield $46,0\%$). Dua indikator regional terkalibrasi BPS yang diuji memberikan kontribusi prediktif marginal ($\Delta\text{AUC} = +0,0017$). Model linier *Logistic Regression* memberikan kinerja diskriminasi tertinggi pada data uji ($0,7856$) karena kompleksitas model yang rendah dan minimnya risiko overfitting pada struktur data linier terdistorsi, sementara *TPE-optimized XGBoost* menghasilkan ROC-AUC $0,7682$. Validasi lintas provinsi memberikan indikasi awal kemampuan generalisasi model pada provinsi holdout di dalam lingkungan simulasi ($0,7643 \pm 0,0321$).
+Penelitian ini merumuskan kerangka tolok ukur simulasi non-sirkular untuk menguji nilai informasi integrasi data pihak ketiga dalam pemeringkatan risiko kepatuhan pedagang daring. Dalam batas lingkungan simulasi yang diasumsikan, studi ablasi mengindikasikan bahwa pelaporan mandiri semata memiliki daya pembeda yang sangat terbatas (ROC-AUC $0,5641$), sedangkan integrasi data transaksi gerbang pembayaran digital dan logistik berkorelasi dengan peningkatan performa pemeringkatan risiko yang substansial (ROC-AUC $0,7667$ dan Top-20% Risk Yield $46,0\%$). Dua indikator regional berbasis data BPS yang diuji memberikan kontribusi prediktif marginal ($\Delta\text{AUC} = +0,0017$). Model linier *Logistic Regression* memberikan kinerja diskriminasi tertinggi pada data uji ($0,7856$) karena kompleksitas model yang rendah dan minimnya risiko overfitting pada struktur data linier terdistorsi, sementara *TPE-optimized XGBoost* menghasilkan ROC-AUC $0,7682$. Validasi lintas provinsi memberikan indikasi awal kemampuan generalisasi model pada provinsi holdout di dalam lingkungan simulasi ($0,7643 \pm 0,0321$).
 
 ### 6.2 Rekomendasi Kebijakan
 a. **Interoperabilitas Data Pihak Ketiga:** Memprioritaskan standardisasi protokol pertukaran data terenkripsi antara otoritas pajak, penyedia gerbang pembayaran digital, dan platform logistik.
@@ -270,6 +277,7 @@ c. **Uji Validasi Empiris Bertahap:** Menjadikan kerangka simulasi ini sebagai l
 * Badan Pusat Statistik. (2024). *Statistik E-Commerce 2024*. Jakarta: BPS RI.
 * Battaglini, M., Guiso, L., Lacava, C., Miller, D. L., & Patacchini, E. (2022). *Refining Public Policies with Machine Learning: The Case of Tax Auditing* (NBER Working Paper No. 30777). National Bureau of Economic Research. https://doi.org/10.3386/w30777
 * Bergstra, J., Bardenet, R., Bengio, Y., & Kégl, B. (2011). Algorithms for hyper-parameter optimization. *Advances in Neural Information Processing Systems (NeurIPS)*, 24, 2546-2554.
+* Carpenter, J., & Bithell, J. (2000). Bootstrap confidence intervals: when, which, what? A practical guide for medical statisticians. *Statistics in Medicine*, 19(9), 1141-1164. https://doi.org/10.1002/(sici)1097-0258(20000515)19:9<1141::aid-sim479>3.0.co;2-f
 * de Roux, D., Pérez, B., Moreno, A., Villamil, M. P., & Figueroa, C. (2018). Tax fraud detection for under-reporting declarations using an unsupervised machine learning approach. In *Proceedings of the 24th ACM SIGKDD International Conference on Knowledge Discovery & Data Mining (KDD '18)* (pp. 215-222). Association for Computing Machinery. https://doi.org/10.1145/3219819.3219878
 * Direktorat Jenderal Pajak. (2023). *Laporan Tahunan Direktorat Jenderal Pajak 2023: Transformasi Digital Perpajakan*. Jakarta: Kementerian Keuangan Republik Indonesia.
 * Direktorat Jenderal Pajak. (2026). *Penerimaan Pajak Digital Capai Rp38,7 Triliun per Kuartal I-2026* (Siaran Pers No. SP-08/2026). Jakarta: Kementerian Keuangan Republik Indonesia.
@@ -283,10 +291,12 @@ c. **Uji Validasi Empiris Bertahap:** Menjadikan kerangka simulasi ini sebagai l
 * Lundberg, S. M., & Lee, S. I. (2017). A unified approach to interpreting model predictions. *Advances in Neural Information Processing Systems (NeurIPS)*, 30, 4765-4774.
 * Mascagni, N., & Mengistu, A. T. (2019). The data revolution in tax administration: Applications, opportunities and challenges. *ICTD Working Paper*, 96, 1-38.
 * Naritomi, J. (2019). Consumers as tax auditors: Electronic invoice programs and tax compliance in Brazil. *American Economic Review*, 109(5), 1730-1772. https://doi.org/10.1257/aer.20160658
+* Nowok, B., Raab, G. M., & Dibben, C. (2016). synthpop: Bespoke creation of synthetic data in R. *Journal of Statistical Software*, 74(11), 1-26. https://doi.org/10.18637/jss.v074.i11
 * OECD. (2020). *Tax Challenges Arising from Digitalisation – Report on Pillar One Blueprint*. Paris: OECD Publishing. https://doi.org/10.1787/beba0634-en
 * Perez-Truglia, R. (2020). The effects of income transparency: Evidence from digital disclosure in Norway. *Journal of Political Economy*, 128(7), 2677-2716. https://doi.org/10.1086/706798
 * Republik Indonesia. (2022). *Undang-Undang Republik Indonesia Nomor 27 Tahun 2022 tentang Pelindungan Data Pribadi*. Lembaran Negara Republik Indonesia Tahun 2022 Nomor 196. Jakarta.
 * Slemrod, J. (2019). Tax compliance and enforcement. *Journal of Economic Literature*, 57(4), 904-954. https://doi.org/10.1257/jel.20181437
+* Snoke, J., Raab, G. M., Nowok, B., Dibben, C., & Slavkovic, A. (2018). General and specific utility measures for synthetic data. *Journal of the Royal Statistical Society: Series A (Statistics in Society)*, 181(3), 663-688. https://doi.org/10.1111/rssa.12358
 
 ---
 
